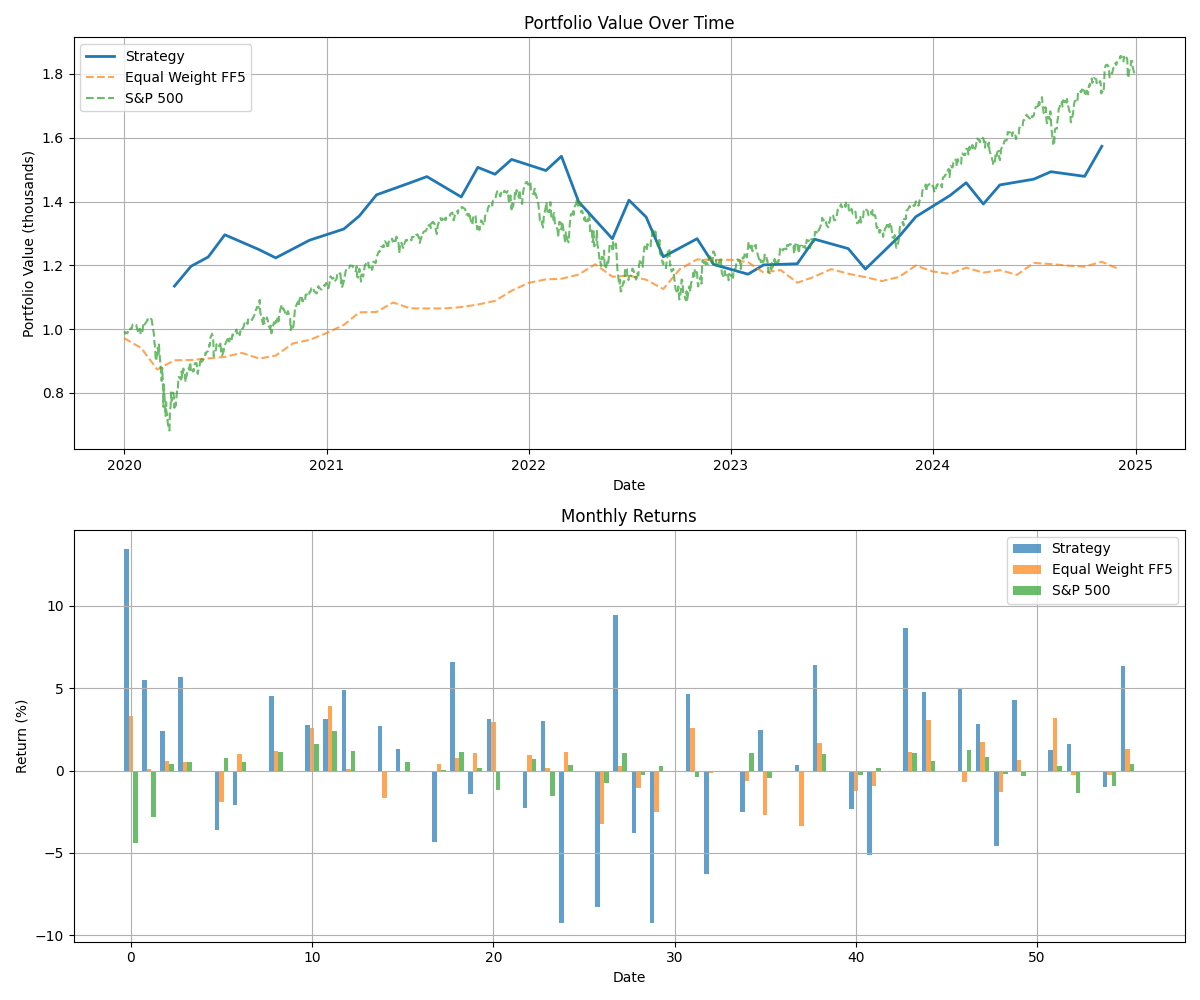
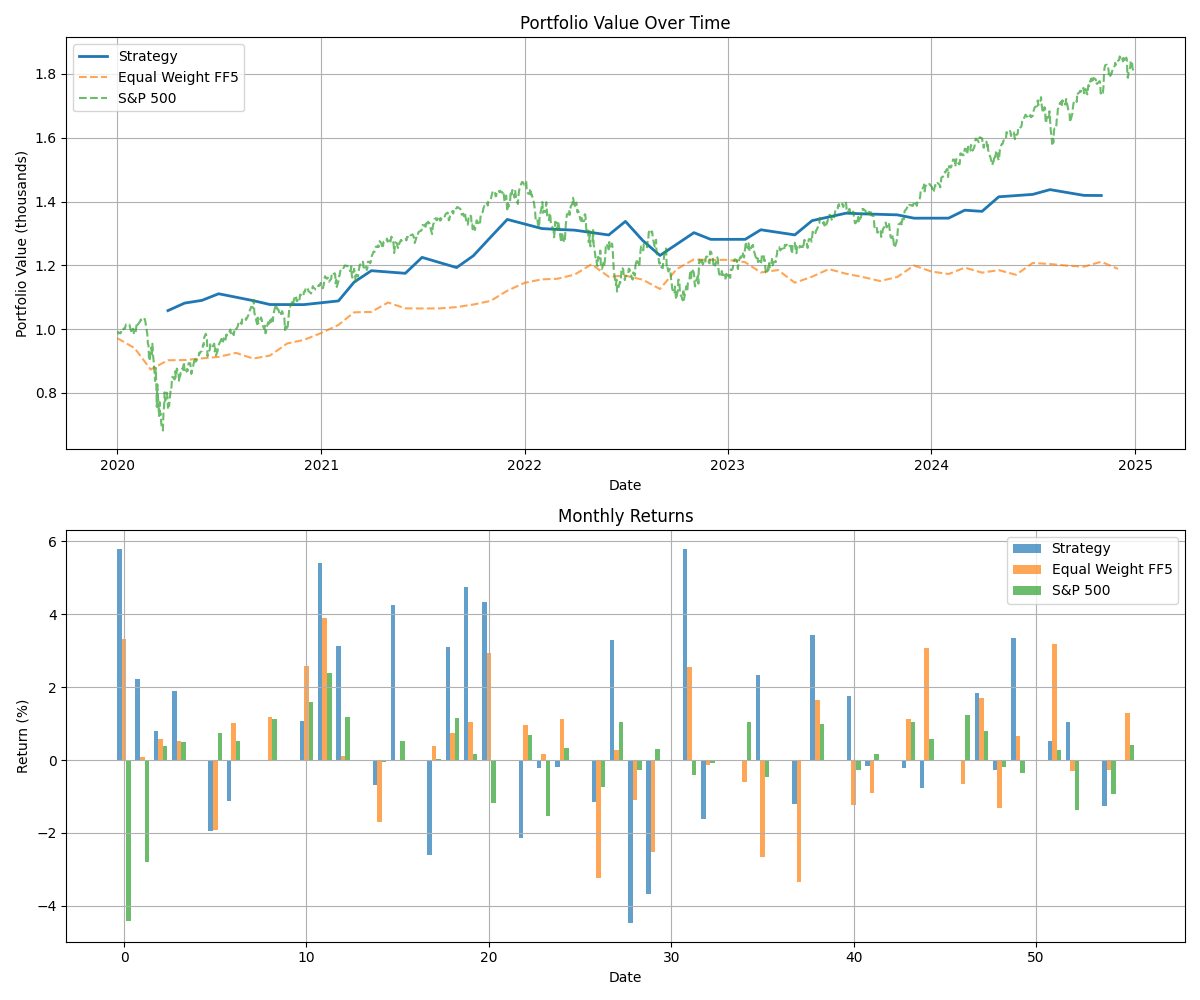
risk parity instead of MVO, sharpe ratio  > 4 but overall return 42%

diff --git a/optimizer/neural_attention_optimizer.py b/optimizer/neural_attention_optimizer.py
@@ -171,8 +171,63 @@ class NeuralAttentionOptimizer:
             
         return sequences, target_weights
         
+    def _risk_parity_optimization(self, returns: np.ndarray) -> np.ndarray:
+        """Solve risk parity optimization problem
+        
+        Args:
+            returns: Array of asset returns
+            
+        Returns:
+            Array of optimal portfolio weights
+        """
+        n_assets = returns.shape[1]
+        
+        # Calculate covariance matrix
+        sigma = np.cov(returns.T)
+        
+        # Initialize weights
+        w = np.ones(n_assets) / n_assets
+        
+        # Risk parity optimization using gradient descent
+        learning_rate = 0.01
+        max_iter = 1000
+        tolerance = 1e-6
+        
+        for _ in range(max_iter):
+            # Calculate portfolio volatility
+            vol = np.sqrt(w @ sigma @ w)
+            
+            # Calculate marginal risk contributions
+            mrc = (sigma @ w) / vol
+            
+            # Calculate risk contributions
+            rc = w * mrc
+            
+            # Calculate gradient
+            gradient = rc - vol / n_assets
+            
+            # Update weights
+            w_new = w - learning_rate * gradient
+            
+            # Project back to simplex
+            w_new = np.maximum(w_new, 0)
+            w_new = w_new / np.sum(w_new)
+            
+            # Check convergence
+            if np.max(np.abs(w_new - w)) < tolerance:
+                break
+                
+            w = w_new
+            
+        return w
+
     def _mean_variance_optimization(self, returns: np.ndarray, risk_aversion: float = 1.0) -> np.ndarray:
         """Solve mean-variance optimization problem using quadratic programming"""
+        # Use risk parity as default optimization method
+        return self._risk_parity_optimization(returns)
+        
+        # Uncomment below to use traditional MVO instead
+        """
         n_assets = returns.shape[1]
         
         # Calculate mean returns and covariance
@@ -182,7 +237,7 @@ class NeuralAttentionOptimizer:
         # Add momentum factor
         momentum_returns = returns[-20:] if len(returns) >= 20 else returns
         momentum = np.mean(momentum_returns, axis=0)
-        mu = 0.7 * mu + 0.3 * momentum  # Increased momentum weight
+        mu = 0.7 * mu + 0.3 * momentum
         
         # QP matrices
         P = matrix(2.0 * risk_aversion * sigma)
@@ -204,6 +259,7 @@ class NeuralAttentionOptimizer:
             weights = np.ones(n_assets) / n_assets
             
         return weights
+        """
         
     def train(self, returns: Union[np.ndarray, pd.DataFrame], valid_returns: Optional[Union[np.ndarray, pd.DataFrame]] = None) -> Dict[str, list]:
         """Train the neural attention optimizer
